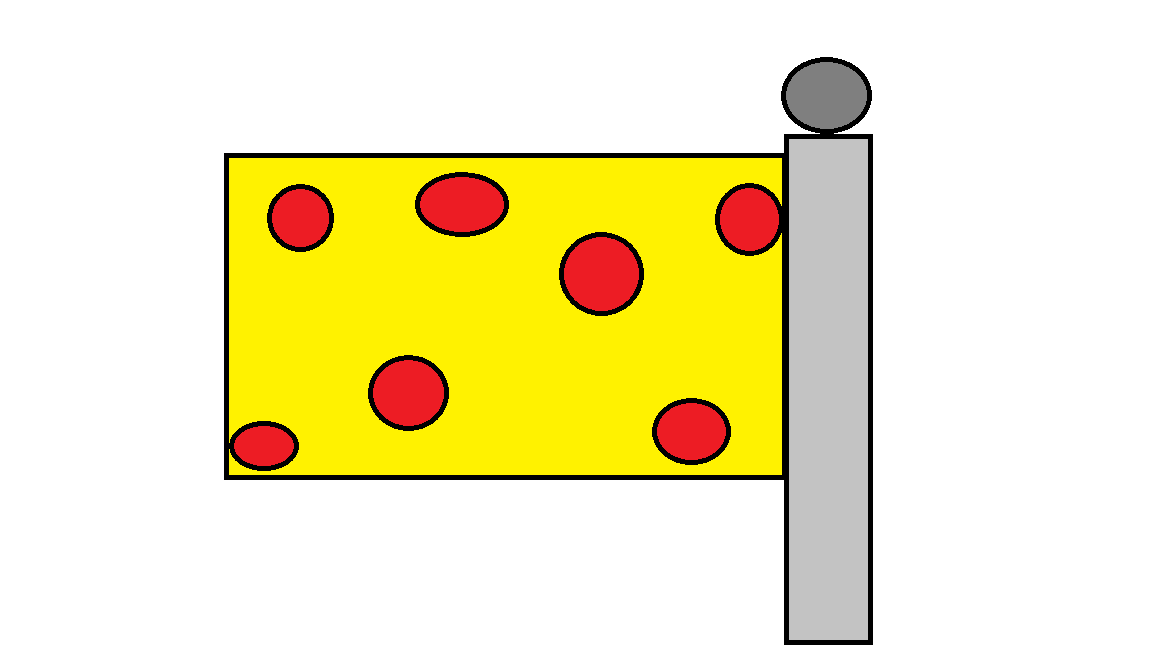
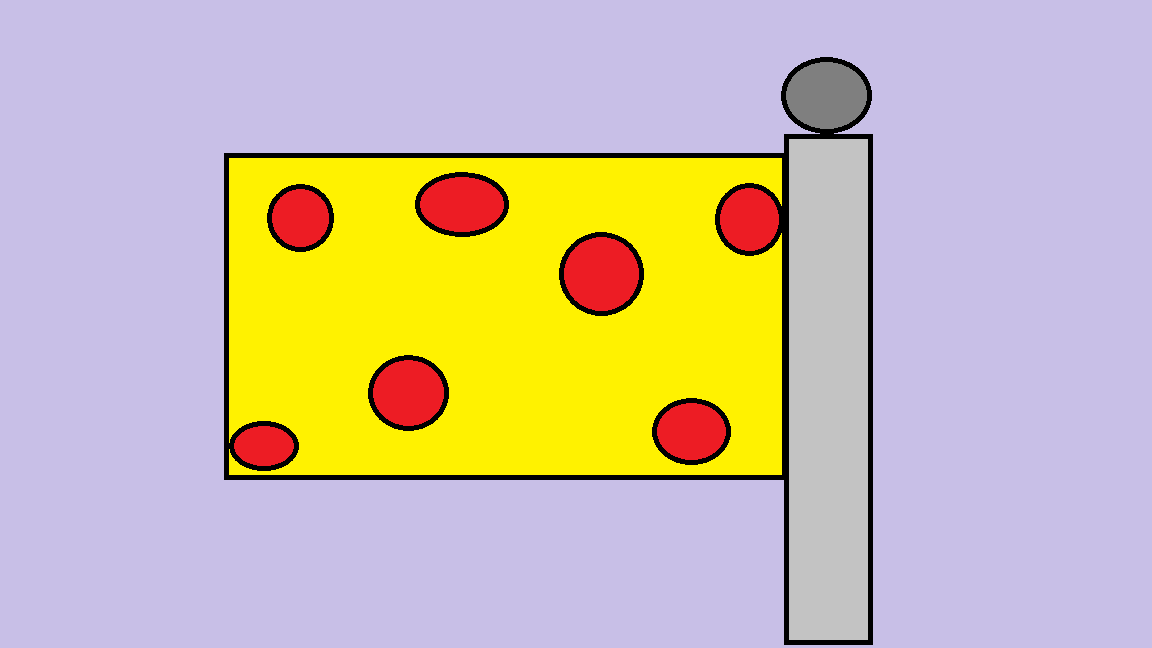
changed up the background of the entire webpage

diff --git a/wwwroot/css/site.css b/wwwroot/css/site.css
@@ -89,12 +89,20 @@ html {
 }
 
 body {
-    background: linear-gradient(145deg, #ccc 25%, transparent 25%) -50px 0, linear-gradient(225deg, #ccc 25%, transparent 25%) -50px 0, linear-gradient(315deg, #ccc 25%, transparent 25%), linear-gradient(35deg, #ccc 25%, transparent 25%);
-    background-size: 100px 100px;
-    background-color: #FA8072;
+    background: linear-gradient(30deg, #bdbdbd 12%, transparent 12.5%, transparent 87%, #bdbdbd 87.5%, #bdbdbd 0), linear-gradient(150deg, #bdbdbd 12%, transparent 12.5%, transparent 87%, #bdbdbd 87.5%, #bdbdbd 0), linear-gradient(30deg, #bdbdbd 12%, transparent 12.5%, transparent 87%, #bdbdbd 87.5%, #bdbdbd 0), linear-gradient(150deg, #bdbdbd 12%, transparent 12.5%, transparent 87%, #bdbdbd 87.5%, #bdbdbd 0), linear-gradient(60deg, #dbdbdb 25%, transparent 25.5%, transparent 75%, #dbdbdb 75%, #dbdbdb 0), linear-gradient(60deg, #dbdbdb 25%, transparent 25.5%, transparent 75%, #dbdbdb 75%, #dbdbdb 0), #FA8072;
+    background-position: 0 0, 0 0, 40px 70px, 40px 70px, 0 0, 40px 70px;
+    background-size: 80px 140px;
 }
 
 
+
+/*zig zag gradient*/
+   /* background: linear-gradient(145deg, #ccc 25%, transparent 25%) -50px 0, linear-gradient(225deg, #ccc 25%, transparent 25%) -50px 0, linear-gradient(315deg, #ccc 25%, transparent 25%), linear-gradient(35deg, #ccc 25%, transparent 25%);
+    background-size: 100px 100px;
+    background-color: #FA8072; */
+}
+
+    /*salmon gradient*/
     /* Margin bottom by footer height */
     /*margin-bottom: 60px;
     background: #F5F5DC;
